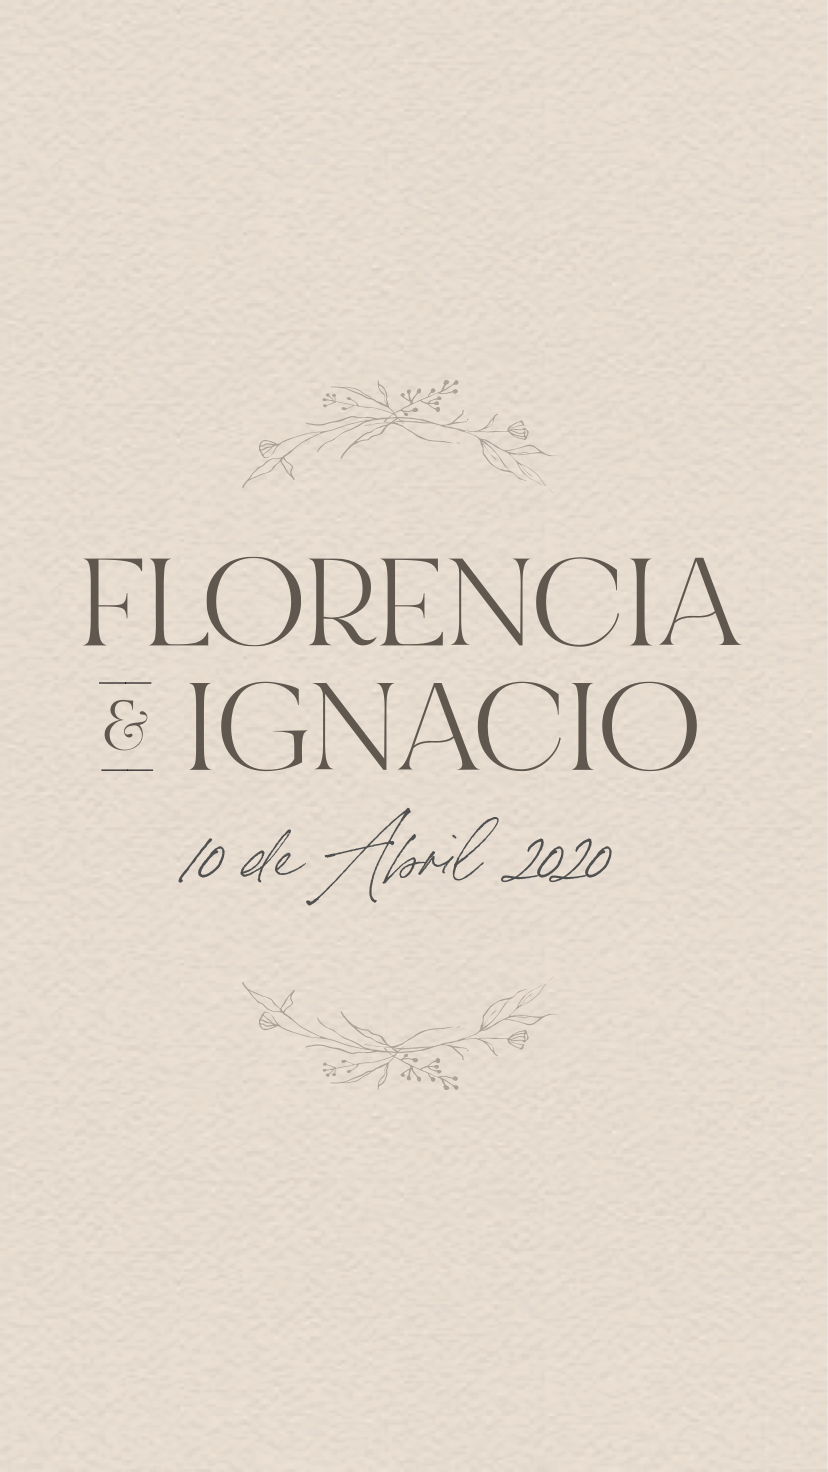
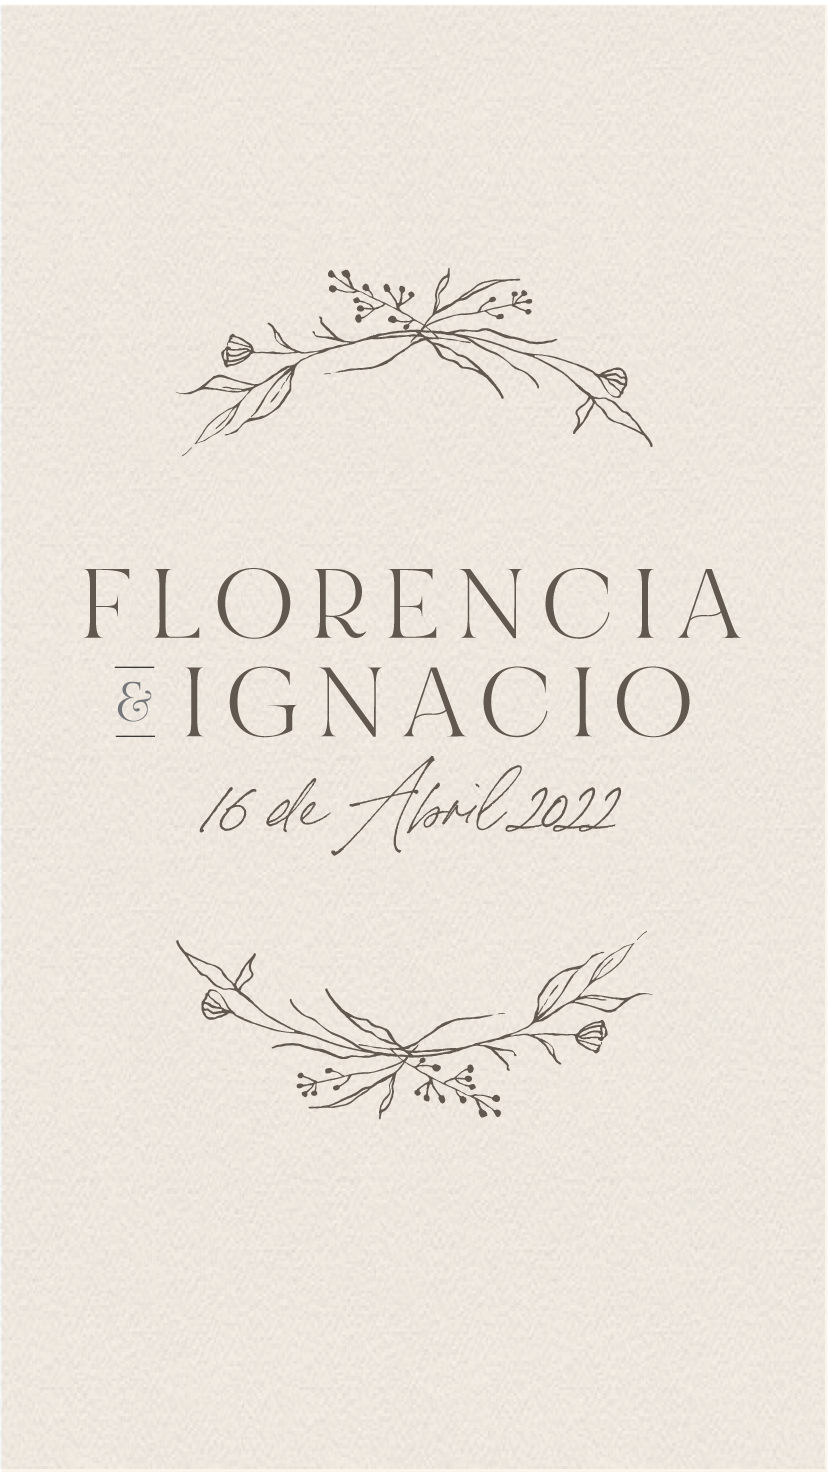
Update index and images with new date

diff --git a/index.html b/index.html
@@ -382,10 +382,10 @@
                 <div class="col col-md-12 row content hospedaje main-detail">
                     <div>
                         <h3>Hospedajes</h3>
-                        <p>Para hospedarse hay muchas opciones en todo Rosario. Vale aclarar que el centro de Rosario esta a aproximadamente 20min del evento. Aquí ponemos algunas recomendaciones pero si buscan en las compañías de turismo van a encontrar muchas más.</p>
-                        <p> <b> Hotel Plaza Real </b> - Santa Fe 1632 - 4 Estrellas - Si al momento de reservar dicen que van al casamiento de Florencia Borsatto acceden a una tarifa con descuento - https://www.plazarealhotel.com/</p>
-                        <p> <b> Puerto Norte Design Hotel </b> - Av. Luis Cánido Carballo 148 - De los hoteles grandes es el mas cercano a la fiesta. Es una zona un poco alejada de locales y mejor moverse en auto, sin auto recomendamos alguno más céntrico - https://www.puertonortehotel.com/ </p>
-                        <p> <b> Hotel Dazzler by Whyndam </b> - Junín 187 - Es de los más cercanos al salón también. Es una zona un poco alejada de locales y mejor moverse en auto, sin auto recomendamos alguno más céntrico - https://dazzlerrosario.com/ </p>
+                        <p>Para hospedarse hay muchas opciones en todo Rosario. Vale aclarar que el centro de Rosario esta aproximadamente a 20min del evento. Aquí ponemos algunas recomendaciones, pero si buscan en las compañías de turismo van a encontrar muchas más.</p>
+                        <p> <b> Hotel Plaza Real </b> - Santa Fe 1632 - 4 Estrellas - Muy bien ubicado si quieren conocer Rosario. Se encuentra en pleno centro comercial, a metros de un shopping. - https://www.plazarealhotel.com/</p>
+                        <p> <b> Holiday Inn Rosario </b> - Dorrego 450 - Es más moderno, muy buena opción para salir a caminar alrededor. Muy cerca del Blv Oroño en donde se encuentran varios bares y locales. - https://www.ihg.com/holidayinn/hotels/us/en/rosario/rsrar/hoteldetail </p>
+                        <p> <b> Hotel Dazzler by Whyndam </b> - Junín 187 - Es de los más cercanos al salón. Es una zona un poco alejada del centro y es mejor moverse en auto, pero esta a metros del shopping Alto Rosario que tiene además de locales de ropa, lugares para comer y peluquerías.- https://dazzlerrosario.com/ </p>
                         <p> <b> Airbnb </b> - Hay varios hospedajes disponibles, pero no demasiados a pocas cuadras del salon, no dejen de fijarse! </p>
                     </div>
                 </div>
@@ -396,7 +396,7 @@
                 <div class="row content hospedaje">
                     <div class="col col-md-4 getting-there-details">
                         <h3>Traffic</h3>
-                        <p> Vamos a organizar un servicio de transporte ida y vuelta de Rosario al evento de ser necesario. Todavía no lo tenemos confirmado ya que para cerrar los detalles necesitamos considerar el hospedaje elegido y la cantidad de personas. Si estas interesado en este servicio avísanos así arreglamos!</p>
+                        <p> Vamos a organizar un servicio de transporte ida y vuelta al evento de ser necesario. Todavía no lo tenemos confirmado ya que para cerrar los detalles necesitamos considerar el hospedaje elegido y la cantidad de personas. Si estas interesado en este servicio avísanos así arreglamos!</p>
                     </div>
                     <div class="col col-md-4 getting-there-details second">
                         <h3>Remiseria Primera clase</h3>
@@ -405,7 +405,7 @@
                     </div>
                     <div class="col col-md-4 getting-there-details">
                         <h3>Cabify</h3>
-                        <p> En Rosario no hay Uber. Pero hay Cabify. Recomendamos bajarse la aplicación si es que no la tienen. En Cabify se pueden agendar y reservar viajes con anticipación.</p>
+                        <p> En Rosario no hay Uber. Pero hay Cabify. Recomendamos bajarse la aplicación si es que no la tienen. Se pueden agendar y reservar viajes con anticipación.</p>
                     </div>
                 </div> <!-- end row -->
             </div> <!-- end container -->
@@ -482,7 +482,7 @@
                     <div class="text-and-button">
                         <p>Esperamos que todos puedan venir. Para confirmar asistencia por favor completar el formulario que se abre al apretar el botón que aparece a continuación.
                             Por favor responder antes del 16 de Marzo.</p>
-                        <a class="submit" href="https://forms.gle/yJyMcSzbEgf2uux28" target="_blank">confirmar</a>
+                        <a class="submit" href="https://docs.google.com/forms/d/e/1FAIpQLSfTeVXICpJR0n55hqss3qe7XvBbj9JON-PiXRk0rVVeKRBcFQ/viewform?usp=sf_link" target="_blank">confirmar</a>
                     </div>
                 <!--</div> &lt;!&ndash; end row &ndash;&gt;-->
             </div> <!-- end container -->
